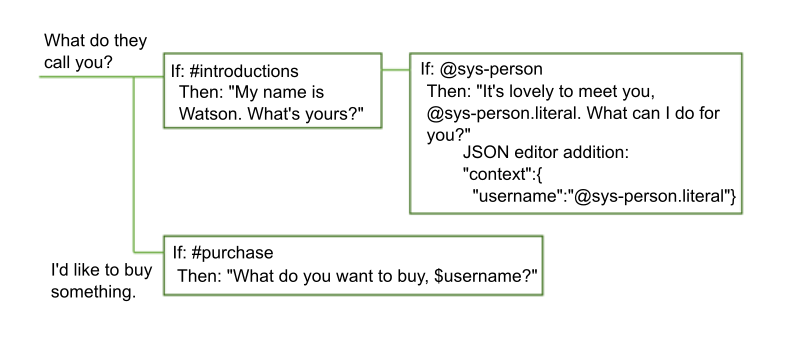
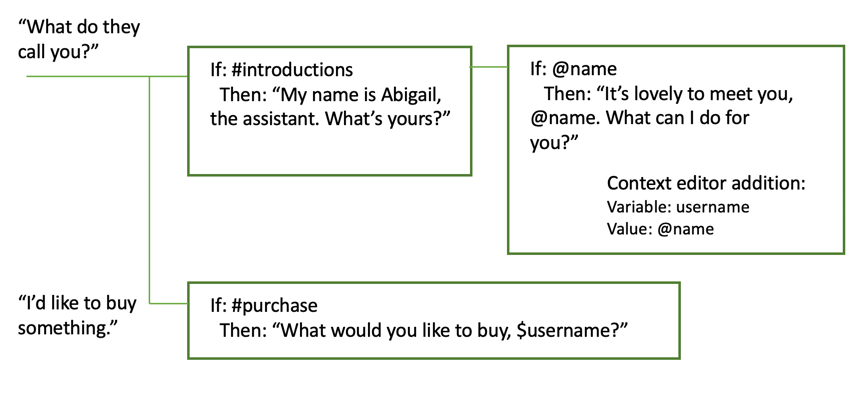
edits

Changed region(s): [[0.0, 0.0312, 0.9783, 0.9037], [0.9783, 0.1246, 1.0, 0.6232]]

diff --git a/web-chat-config.md b/web-chat-config.md
@@ -31,9 +31,16 @@ subcollection: assistant
 Tailor the web chat to match your website and brand, and to behave in ways that meet your business needs.
 {: shortdesc}
 
-When the embedded web chat widget starts, a configuration object is used to define the widget. By editing the configuration object, you can customize the appearance and behavior of the web chat before it is rendered. The API provides instance methods that you can call to perform tasks before a conversation between the assistant and your customer begins or after it ends. The API also defines a set of events that your website can listen for and then take custom actions.
+## API overview
+{ #web-chat-config-api}
 
-A developer can use the API to customize the web chat in the following ways:
+The following APIs are available:
+
+- **Configuration object**: When the embedded web chat widget starts, a configuration object named `watsonAssistantChatOptions` is used to define the widget. By editing the configuration object, you can customize the appearance and behavior of the web chat before it is rendered.
+- **Runtime methods**: Use the instance methods to perform tasks before a conversation between the assistant and your customer begins or after it ends.
+- **Events**: Your website can listen for these events, and then take custom actions.
+
+A developer can use these APIs to customize the web chat in the following ways:
 
 - [Change how the web chat opens and closes](#web-chat-config-open-close)
 - [Change the conversation](#web-chat-config-convo)
@@ -73,7 +80,7 @@ You can make simple changes to the color of things like the text font and web ch
 The web chat is embedded directly on your page, not inside an iframe. Therefore, the cascading style sheet (CSS) rules for your website can sometimes override the web chat CSS rules. The web chat applies aggressive CSS resets, but the resets can be affected if your website uses the `!important` property in elements where style is defined.
 {: note}
 
-## Passing values
+### Passing values
 {: #web-chat-config-context}
 
 Here are some common tasks you might want to perform:
@@ -83,7 +90,7 @@ Here are some common tasks you might want to perform:
 
 For a tutorial that describes how to set context values from the web chat, see [Setting context](https://web-chat.global.assistant.watson.cloud.ibm.com/docs.html?to=tutorials-setting-context){: external}.
 
-### Setting and passing context variable values
+#### Setting and passing context variable values
 {: #web-chat-config-set-context}
 
 A context variable is a variable that you can use to pass information to your assistant before a conversation starts. It can also collect information during a conversation, and reference it later in the same conversation. For example, you might want to ask for the customer's name and then address the person by name later on.
@@ -127,7 +134,7 @@ If you enable security, you can encrypt the data that you pass to your dialog. F
 If you're using a Lite plan, remember that a session ends if there's no interaction with the user after 5 minutes. When the session ends, any contextual information that you pass or collect is reset. 
 {: important} 
 
-### Adding user identity information
+#### Adding user identity information
 {: #web-chat-config-userid}
 
 If you do not enable security, and you want to perform tasks where you need to know the user who submitted the input, then you must pass the user ID to the web chat integration.

diff --git a/legacy-system-entities.md b/legacy-system-entities.md
@@ -2,7 +2,7 @@
 
 copyright:
   years: 2015, 2021
-lastupdated: "2020-12-01"
+lastupdated: "2021-01-08"
 
 subcollection: assistant
 
@@ -192,18 +192,6 @@ For the input `at 6 pm` @sys-time returns these values:
 For information about processing date and time values, see the [Date and time method reference](/docs/assistant?topic=assistant-dialog-methods#dialog-methods-date-time).
 {: tip}
 
-## @sys-location entity  ![Beta feature](images/beta.png)
-{: #legacy-system-entities-sys-location}
-
-The @sys-location system entity extracted place names (country, state or province, city, town, and so on) from the user's input.
-
-Support for this system entity was removed on 15 July 2020. The new system entities feature does not include an entity that recognizes location names.
-{: deprecated}
-
-A powerful alternative to using the `@sys-location` system entity is to use a contextual entity for identifying proper nouns, such as locations. For more information, see [Annotation-based method](https://cloud.ibm.com/docs/assistant?topic=assistant-entities#entities-annotations-overview).
-
-For more information about how to use contextual entites to identify locations, see the [Detecting Names And Locations With Watson Assistant](https://medium.com/ibm-watson/detecting-names-and-locations-with-watson-assistant-e3e1fa2a8427) blog post on Medium.
-
 ## @sys-number entity
 {: #legacy-system-entities-sys-number}
 
@@ -312,15 +300,3 @@ You get equivalent results for other supported languages.
 - If you use the @sys-percentage entity as a node condition and the user specifies `0%` as the value, the value is recognized as a percentage properly, but the condition is evaluated to the number zero not the percentage 0%. As a result, the `null` in the condition is evaluated to false and the node is not processed. To check for percentages in a way that handles zero percentages properly, use the expression `@sys-percentage OR @sys-percentage == 0` in the node condition instead.
 
 - If you input a value like `1-2%`, the values `1%` and `2%` are returned as system entities.
-
-## @sys-person entity ![Beta feature](images/beta.png)
-{: #legacy-system-entities-sys-person}
-
-The @sys-person system entity extracted names from the user's input. 
-
-Support for this system entity was removed on 15 July 2020. The new system entities feature does not include an entity that recognizes people's names.
-{: deprecated}
-
-A powerful alternative to using the `@sys-person` system entity is to use a contextual entity for identifying proper nouns, such as names. For more information, see [Annotation-based method](https://cloud.ibm.com/docs/assistant?topic=assistant-entities#entities-annotations-overview).
-
-For more information about how to use contextual entites to identify names of people, see the [Detecting Names And Locations With Watson Assistant](https://medium.com/ibm-watson/detecting-names-and-locations-with-watson-assistant-e3e1fa2a8427){: external} blog post on Medium.

diff --git a/deploy-sms.md b/deploy-sms.md
@@ -2,7 +2,7 @@
 
 copyright:
   years: 2020, 2021
-lastupdated: "2020-12-14"
+lastupdated: "2021-01-08"
 
 subcollection: assistant
 
@@ -74,8 +74,6 @@ To set up the integration, complete the following steps:
 
     The phone number must be unique per phone integration. If you use Twilio as the SIP trunk provider, you can use the same phone number for your phone and text messaging integrations.
 
-    If you get a *Forbidden* message, it means the phone number cannot be verified. Make sure the number fully matches the SMS phone number.
-
 1.  Scroll to the *Setup instructions* section, and then copy the value from the **Webhook URI (uniform resource identifier)** field.
 
 1.  Go to your Twilio account web page. From the *All Products and Services* menu, click *Phone Numbers*. 
@@ -121,3 +119,10 @@ For the best customer experience, design your dialog with the capabilities of th
 If you want to use the same dialog for an assistant that you deploy to many different platforms, add custom responses per integration type. You can add a conditioned response that tells the assistant to show the response only when the SMS with Twilio integration is being used. For more information, see [Building integration-specific responses](/docs/assistant?topic=assistant-dialog-integrations#dialog-integrations-condition-by-type).
 
 For reference documentation, see [Handling SMS with Twilio interactions](/docs/assistant?topic=assistant-dialog-sms-actions).
+
+## Troubleshooting
+{: #deploy-sms-troubleshoot}
+
+Find solutions to problems that you might encounter while using the integration.
+
+- If you get a *Forbidden* message, it means the phone number that you specified when you configured the integration cannot be verified. Make sure the number fully matches the SMS phone number.

diff --git a/dialog-slots.md b/dialog-slots.md
@@ -2,7 +2,7 @@
 
 copyright:
   years: 2015, 2021
-lastupdated: "2021-01-06"
+lastupdated: "2021-01-08"
 
 keywords: slot, slots
 
@@ -451,7 +451,7 @@ For each slot, you can use conditional responses with associated actions to help
 
     **Found example**: The slot is expecting the time for a dinner reservation. You might use @sys-time in the *Check for* field to capture it. To prevent an invalid time from being saved, you can add a conditional response that checks whether the time provided is before the restaurant's last seating time, for example. `@sys-time.after('21:00:00')` The corresponding response might be something like, *Our last seating is at 9PM.*
 
-    **Not found example**: The slot is expecting a @location entity that accepts a specific set of cities where the restaurant chain has restaurants. The Not found condition might check for @sys-location in case the user specifies a valid city, but one in which the chain has no sites. The corresponding response might be, *We have no restaurants in that location.*
+    **Not found example**: The slot is expecting a @location entity that accepts a specific set of cities where the restaurant chain has restaurants. The Not found condition might check for @city in case the user specifies a valid city, but one in which the chain has no sites. The corresponding response might be, *We have no restaurants in that location.*
 
 1.  If you want to customize what happens next if the condition is met, then click the **Edit response** ![Edit response](images/edit-slot.png) icon.
 

diff --git a/release-notes.md b/release-notes.md
@@ -2,7 +2,7 @@
 
 copyright:
   years: 2015, 2021
-lastupdated: "2021-01-06"
+lastupdated: "2021-01-08"
 
 subcollection: assistant
 
@@ -253,6 +253,8 @@ The following features are available in service instances hosted in all data cen
 - **Support ended for @sys-location and @sys-person**: The person and location system entities, which were available as a beta feature in English dialog skills only, are no longer supported. You cannot enable them. If your dialog uses them, they are ignored by the service. 
 
   Use contextual entities to teach your skill to recognize the context in which such names are used. For more information about contextual entities, see [Annotation-based method](/docs/assistant?topic=assistant-entities#entities-annotations-overview).
+
+  For more information about how to use contextual entites to identify names of people, see the [Detecting Names And Locations With Watson Assistant](https://medium.com/ibm-watson/detecting-names-and-locations-with-watson-assistant-e3e1fa2a8427){: external} blog post on Medium.
 
 - **How legacy numeric system entities are processed has changed**: All new dialog skills use the new system entities automatically. 
 

diff --git a/dialog-runtime-context.md b/dialog-runtime-context.md
@@ -157,7 +157,7 @@ For example, in one node you might ask users for their name, and in a later node
 
 ![Shows an introductions node that asks the user for their name, and stores it as a context variable. The next node refers to the user by name by using the $username context variable.](images/set-context-username.png)
 
-In this example, the system entity @sys-person is used to extract the user's name from the input if the user provides one. In the JSON editor, the username context variable is defined and set to the @sys-person value. In a subsequent node, the $username context variable is included in the response to address the user by name.
+In this example, the system entity @name is used to extract the user's name from the input if the user provides one. In the JSON editor, the username context variable is defined and set to the @name value. In a subsequent node, the $username context variable is included in the response to address the user by name.
 
 ### Defining a context variable
 {: #dialog-runtime-context-var-define}
